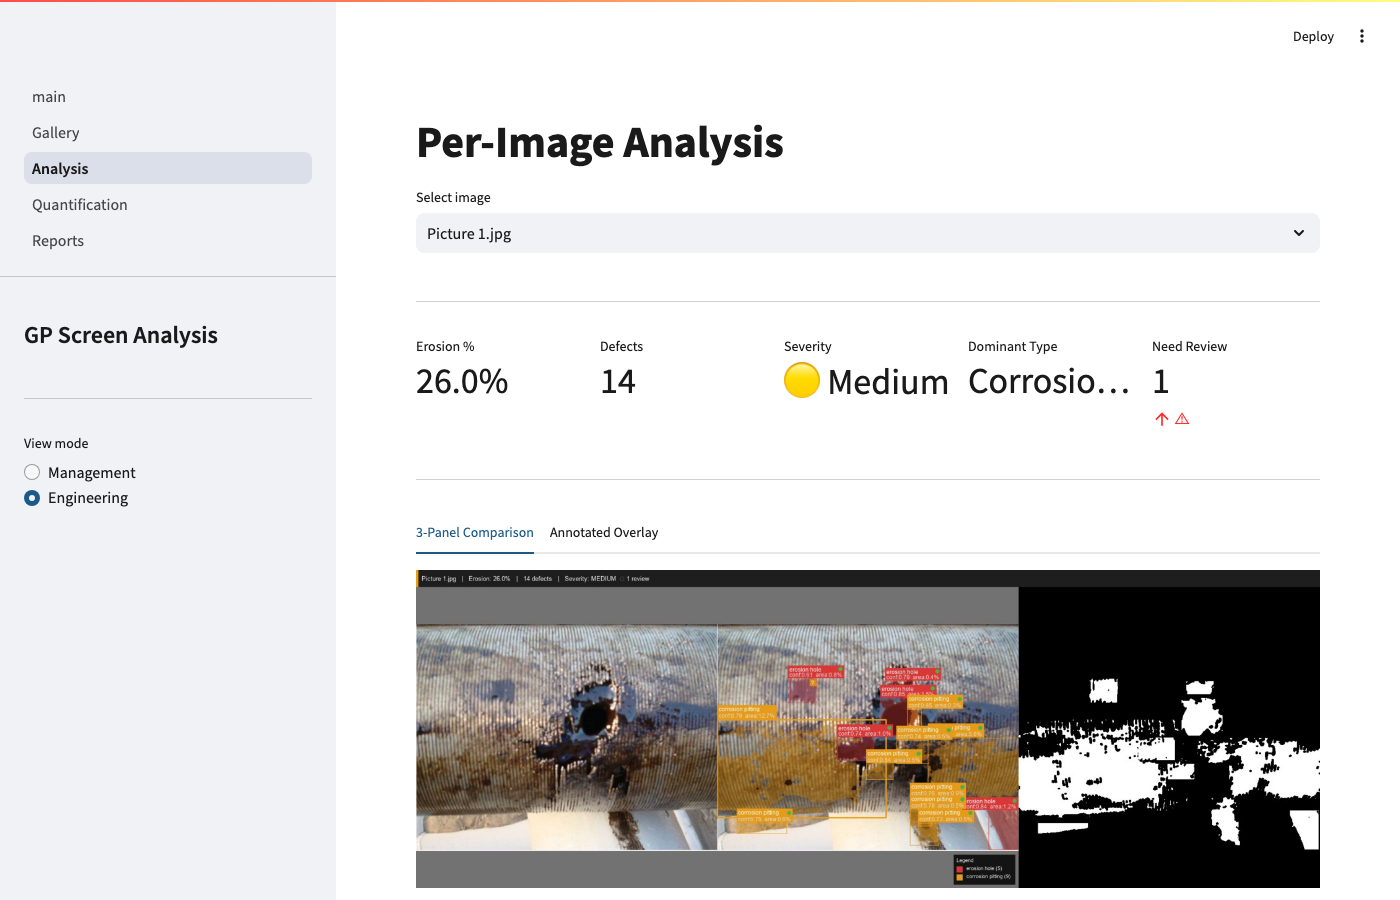
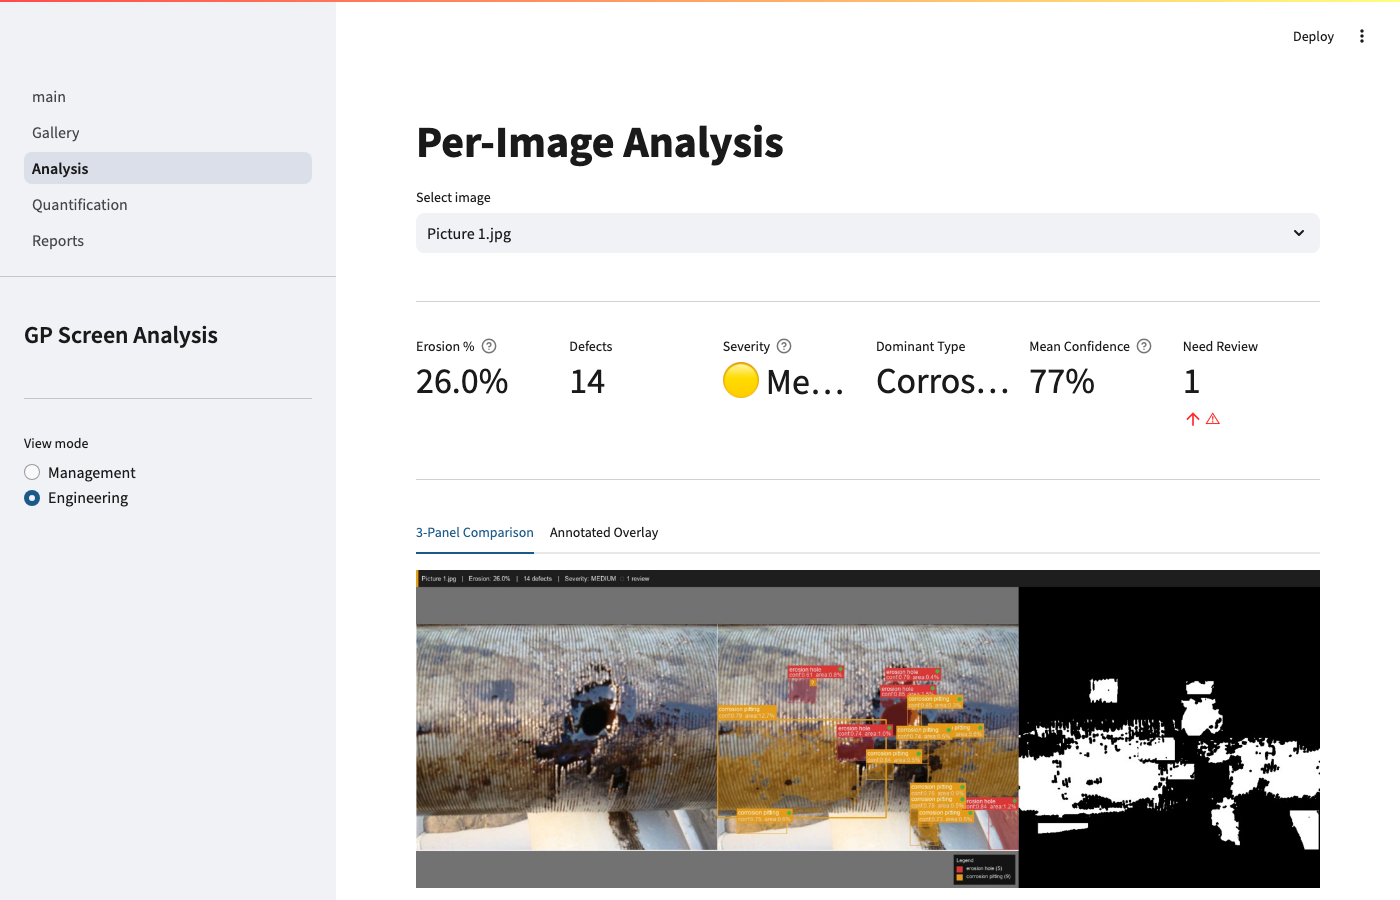
Update screenshots and README for engineering improvements
Refresh all five dashboard screenshots to show new features: confidence
metric in Analysis KPI row, erosion % formula in Quantification caption,
and defect size columns in metrics table. Update README page descriptions
and Key Metrics table to document precise definitions and severity thresholds.

Changed region(s): [[0.4914, 0.3733, 0.8907, 0.4667], [0.3993, 0.3733, 0.4607, 0.4356]]

diff --git a/README.md b/README.md
@@ -76,7 +76,7 @@ Role-based views are available — Engineering users see full technical detail; 
 
 ### Home — Campaign Overview
 ![Home](docs/screenshots/01_home.png)
-KPI metrics, erosion % by image, failure type distribution, and severity breakdown across the full campaign.
+Campaign KPIs (images analysed, mean and max erosion %, total defects, review flags), erosion % bar chart ranked by severity, failure type distribution, and severity breakdown. Erosion % tooltip shows the exact formula.
 
 ### Gallery — Image Browser
 ![Gallery](docs/screenshots/02_gallery.png)
@@ -84,11 +84,11 @@ Thumbnail grid of annotated screen images, sortable by erosion % or severity, wi
 
 ### Analysis — Per-Image Detail
 ![Analysis](docs/screenshots/03_analysis.png)
-Select any image to view the 3-panel composite (original / annotated overlay / binary mask), per-image KPIs, and failure type breakdown chart.
+Six KPI cards per image: erosion % (with formula tooltip), defect count, severity (with threshold basis tooltip), dominant failure type, mean model confidence, and review flag count. Engineering view adds an auto-generated assessment — risk level, likely mechanism, plain-English interpretation, and recommended actions. Defect size summary (largest defect, average defect, largest diameter) sits above the per-defect table. Severity threshold basis and recommended actions are in expandable panels.
 
 ### Quantification — Metrics & Charts
 ![Quantification](docs/screenshots/04_quantification.png)
-Erosion % bar chart with severity thresholds, failure type distribution, erosion vs defect count scatter, and full tabular results.
+Erosion % bar chart with labelled severity thresholds and full metric definition in the caption. Charts include failure type distribution and erosion vs defect count scatter. Full metrics table adds largest defect %, average defect diameter, and mean confidence columns alongside defect count.
 
 ### Reports — PDF Downloads
 ![Reports](docs/screenshots/05_reports.png)
@@ -119,11 +119,15 @@ Place source images in `Image/` or `data/raw/`. Do not modify source files — t
 
 ## Key Metrics
 
-- **Erosion %** — defect area as a fraction of detected screen region
-- **Defect count** — number of distinct failure locations per image
-- **Severity score** — low / medium / high / critical, confidence-scored
-- **Failure type distribution** — breakdown by failure mode across campaign
-- **Screens requiring review** — % flagged for human confirmation
+| Metric | Definition |
+|---|---|
+| Erosion % | Total defect pixel area ÷ visible screen pixel area × 100. Model estimate of damaged area fraction — not a direct measurement of metal loss or open-flow area increase. |
+| Severity | < 5 % → Low · 5–20 % → Medium · 20–50 % → High · ≥ 50 % → Critical. Screen collapse and complete plugging escalate one level regardless of area. |
+| Mean confidence | Average model confidence across all detections for the image (0–100 %). Detections below 70 % are flagged for human review. |
+| Largest defect % | Area of the single largest detected defect as % of visible screen area. More indicative of breach severity than defect count alone. |
+| Avg defect diameter | Mean equivalent circular diameter across all detections (pixels). Converts to mm when `pixels_per_mm` is calibrated. |
+| Defect count | Number of distinct failure locations detected per image. |
+| Failure type distribution | Breakdown by failure mode across the full campaign. |
 
 ---
 
